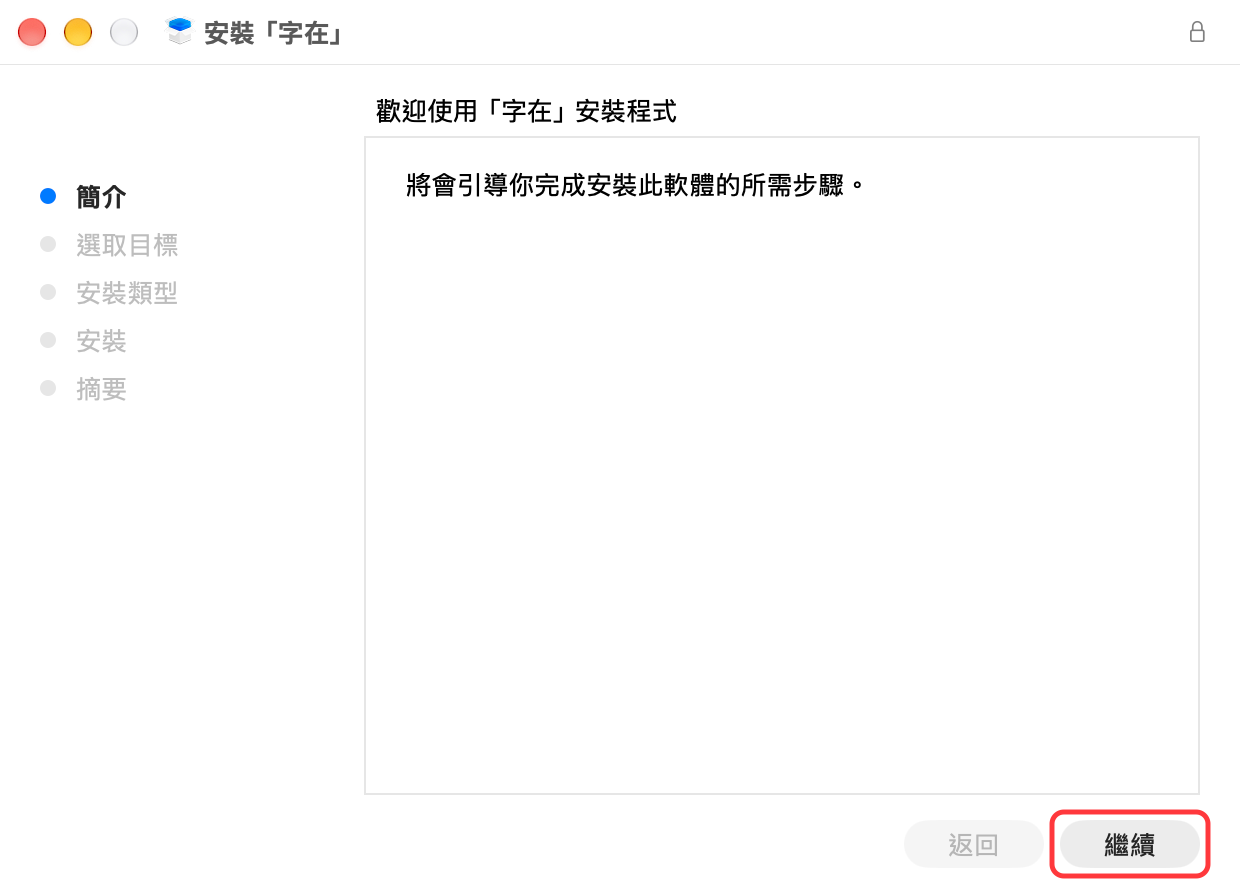
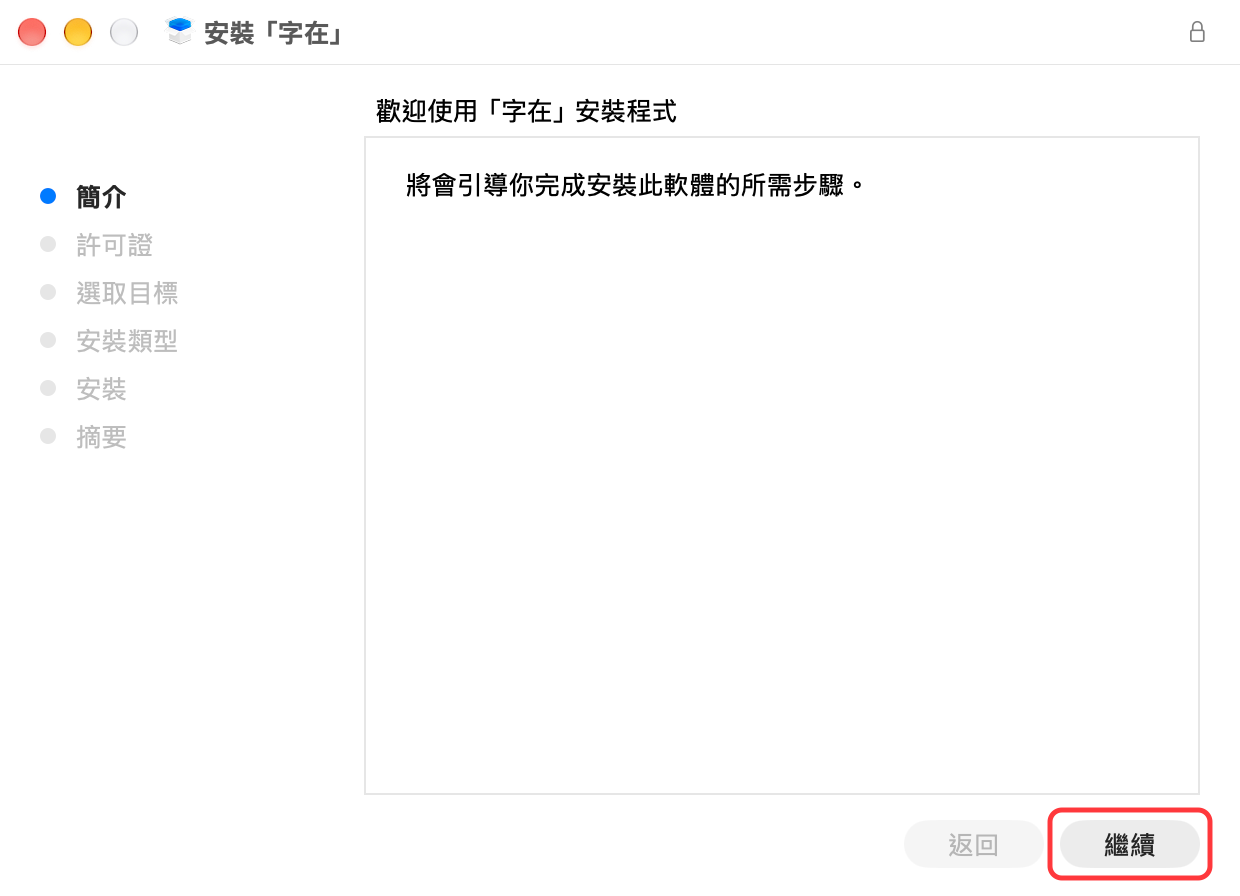
docs: macOS 安裝說明加上條款頁的步驟，安裝截圖重截
- 安裝程式多了「軟體許可協議」，第 3 步說明按「繼續」再按「同意」。
- 左邊的步驟清單多了「許可證」，前三張截圖跟著重截；系統設定的截圖只改檔名。
- 開頭說明這一頁是 macOS 版，Windows 版另有一頁。

diff --git a/docs/安裝與使用.md b/docs/安裝與使用.md
@@ -1,5 +1,7 @@
 # 安裝與使用
 
+這一頁是 macOS 版。Windows 版的安裝、切換與解除安裝見 [安裝與使用（Windows）](安裝與使用（Windows）.md)；打字、選字、字根表、補字這些兩個版本相同的部分寫在這一頁。
+
 ## 系統需求
 
 macOS 13 以上。
@@ -11,26 +13,34 @@ macOS 13 以上。
 
    <img src="images/install-1-continue.png" width="620" alt="安裝程式的第一頁，紅框標出「繼續」按鈕">
 
-3. 「選取目標」選「安裝供這部電腦的所有使用者使用」，按「繼續」。
+3. 閱讀「軟體許可協議」（字在的使用條款與隱私權政策的重點），按「繼續」：
 
-   <img src="images/install-2-destination.png" width="623" alt="選取目標頁，已選「安裝供這部電腦的所有使用者使用」，紅框標出「繼續」按鈕">
+   <img src="images/install-2-license.png" width="620" alt="「軟體許可協議」頁，顯示字在使用條款的開頭，紅框標出「繼續」按鈕">
 
-4. 按「安裝」，輸入電腦的管理者密碼。安裝完成後按「關閉」。
+   在跳出的視窗按「同意」。不同意的話按「不同意」，不會安裝：
 
-   <img src="images/install-3-install.png" width="623" alt="安裝類型頁，紅框標出「安裝」按鈕">
+   <img src="images/install-3-agree.png" width="620" alt="要求同意軟體許可協議的視窗，紅框標出「同意」按鈕">
 
-5. 「系統設定」如果開著，先按 Command＋Q 結束它，因為它不會重新讀取輸入法清單。
-6. 打開「系統設定」→「鍵盤」，按「文字輸入」的「輸入方式」右邊的「編輯⋯」。
+4. 「選取目標」選「安裝供這部電腦的所有使用者使用」，按「繼續」。
 
-   <img src="images/install-4-keyboard-edit.png" width="505" alt="系統設定的鍵盤頁，紅框標出「輸入方式」右邊的「編輯⋯」按鈕">
+   <img src="images/install-4-destination.png" width="623" alt="選取目標頁，已選「安裝供這部電腦的所有使用者使用」，紅框標出「繼續」按鈕">
 
-7. 按左下角的「＋」。
+5. 按「安裝」，輸入電腦的管理者密碼。安裝完成後按「關閉」。
 
-   <img src="images/install-5-add.png" width="640" alt="輸入方式的對話框，紅框標出左下角的「＋」">
+   <img src="images/install-5-install.png" width="623" alt="安裝類型頁，紅框標出「安裝」按鈕">
 
-8. 在左邊選「繁體中文」，在右邊選「字在」，按「加入」。右邊清單裡的其他輸入法，依每台電腦而不同。
+6. 「系統設定」如果開著，先按 Command＋Q 結束它，因為它不會重新讀取輸入法清單。
+7. 打開「系統設定」→「鍵盤」，按「文字輸入」的「輸入方式」右邊的「編輯⋯」。
 
-   <img src="images/install-6-add-zizai.png" width="523" alt="加入輸入方式的清單，紅框標出「繁體中文」、「字在」與「加入」">
+   <img src="images/install-6-keyboard-edit.png" width="505" alt="系統設定的鍵盤頁，紅框標出「輸入方式」右邊的「編輯⋯」按鈕">
+
+8. 按左下角的「＋」。
+
+   <img src="images/install-7-add.png" width="640" alt="輸入方式的對話框，紅框標出左下角的「＋」">
+
+9. 在左邊選「繁體中文」，在右邊選「字在」，按「加入」。右邊清單裡的其他輸入法，依每台電腦而不同。
+
+   <img src="images/install-8-add-zizai.png" width="523" alt="加入輸入方式的清單，紅框標出「繁體中文」、「字在」與「加入」">
 
 清單裡找不到「字在」，或只看到一列空白時，請登出再登入一次。只重開「系統設定」不夠。
 
@@ -115,3 +125,5 @@ macOS 13 以上。
    - `~/Library/Application Support/Zizai` （你的詞庫與擴充字根表都在這裡；要保留就不要刪）
 3. 要清除輸入法選單裡的選項（例如以四碼或三碼為主），在「終端機」執行 `defaults delete studio.mosil.inputmethod.zizai` 。
 4. 登出再登入。
+
+本頁截圖裡的 macOS 介面屬於 Apple，用來說明安裝與使用的步驟；紅框與裁切是字在開發小組加的。
